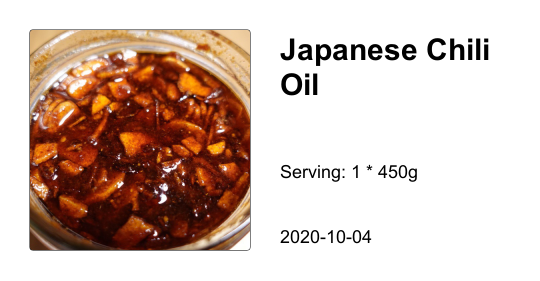
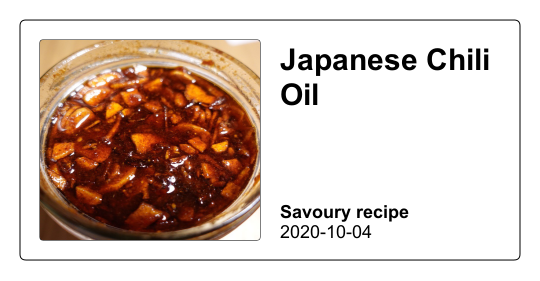
update preview image

diff --git a/pages/recipe/[slug].js b/pages/recipe/[slug].js
@@ -559,26 +559,39 @@ export async function getStaticProps({ params }) {
     canvasTxt.fontWeight = "bold";
     canvasTxt.align = "left";
     canvasTxt.vAlign = "top";
-    canvasTxt.drawText(context, txt, 280, 30, 230, 90);
+    canvasTxt.drawText(context, txt, 280, 40, 230, 90);
 
-    if (post.serving_size) {
-      const servingSize = `Serving: ${post.serving} * ${post.serving_size}`;
-      canvasTxt.fontSize = 18;
-      canvasTxt.lineHeight = 18;
-      canvasTxt.fontWeight = "regular";
-      canvasTxt.drawText(context, servingSize, 280, 160, 230, 200);
-    }
+    // if (post.serving_size) {
+    //   const servingSize = `Serving: ${post.serving} * ${post.serving_size}`;
+    //   canvasTxt.fontSize = 18;
+    //   canvasTxt.lineHeight = 18;
+    //   canvasTxt.fontWeight = "regular";
+    //   canvasTxt.drawText(context, servingSize, 280, 160, 230, 200);
+    // }
 
     canvasTxt.fontSize = 18;
     canvasTxt.fontWeight = "regular";
-    canvasTxt.drawText(context, post.date, 280, 225, 230, 200);
+    canvasTxt.drawText(context, post.date, 280, 220, 230, 200);
+
+    canvasTxt.fontSize = 18;
+    canvasTxt.fontWeight = "bold";
+    canvasTxt.drawText(
+      context,
+      `${capitalizeFirstLetter(post.type)} recipe`,
+      280,
+      200,
+      230,
+      200
+    );
 
     context.fillStyle = "transparent";
-    roundRect(context, 30, 30, 220, 220, 3, "#000", true);
+    roundRect(context, 20, 20, 500, 240, 6, "#000", true);
+
+    roundRect(context, 40, 40, 220, 200, 3, "#fff", true);
     context.clip();
 
     loadImage(`./public/${post.image[0]}`).then((image) => {
-      context.drawImage(image, 20, 20, 240, 240);
+      context.drawImage(image, 40, 40, 220, 200);
       const buffer = canvas.toBuffer("image/png");
       fs.writeFileSync(
         `./public/assets/recipe/${post.slug}-preview.png`,
@@ -638,4 +651,8 @@ export async function getStaticPaths() {
     }),
     fallback: false,
   };
+}
+
+function capitalizeFirstLetter(string) {
+  return string.charAt(0).toUpperCase() + string.slice(1);
 }
